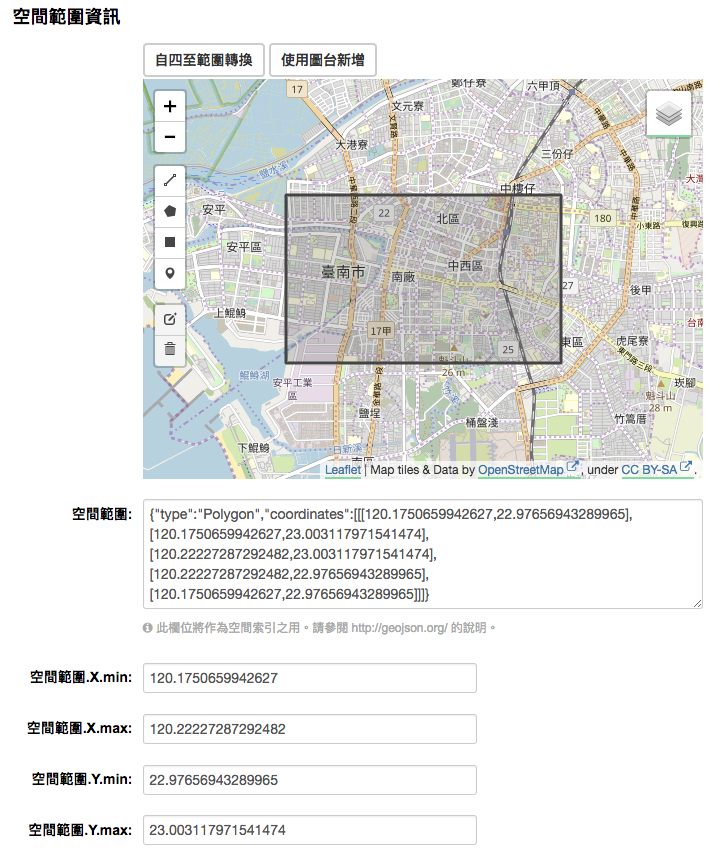
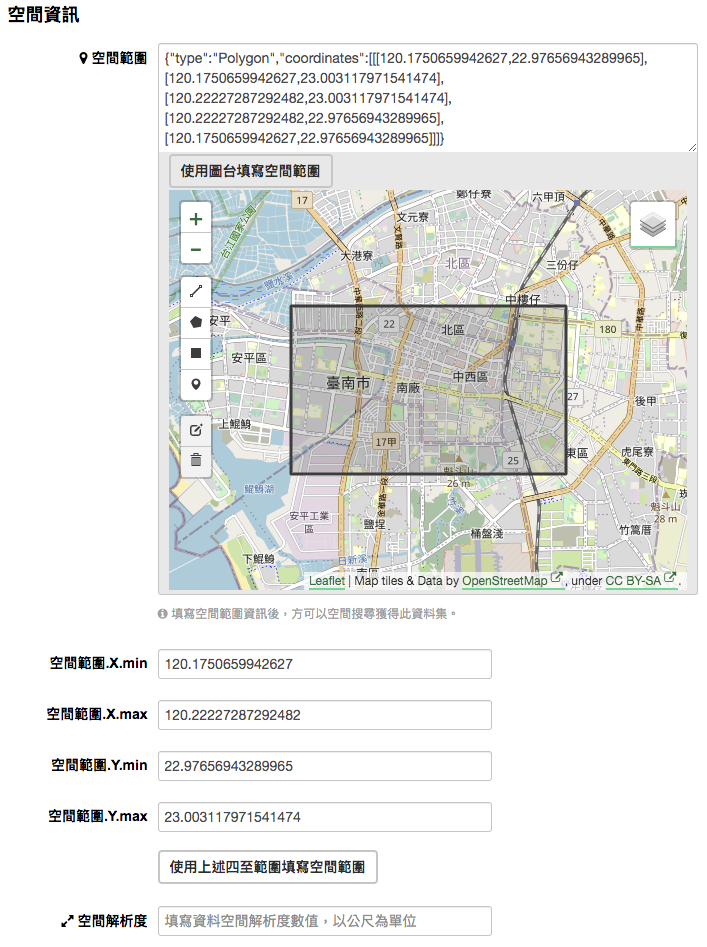
Doc: update ahead of 6.4.1

diff --git a/doc/appendix/fields/basic_information_fields.rst b/doc/appendix/fields/basic_information_fields.rst
@@ -29,18 +29,17 @@
 
    * - Wikidata 關鍵字
      - 否
-     - 您可自 Wikidata（維基資料）找尋符合條件之條目作為關鍵字以描述資料集內容，如圖所示 [#]_。
-       無論在中文或英文語系下新增關鍵字，瀏覽時均會根據網站語系設定顯示對應之翻譯。當無法自 Wikidata 尋得合適條目作為關鍵字時使用時，請將該關鍵字填寫於「標籤」欄位。
+     - 搜尋 Wikidata（維基資料）項目選取關鍵字以描述資料集。如圖所示 [#]_。只用於您專案或資料集的標記（如：計畫編號），請填寫於「標籤」欄位。瀏覽時會根據網站語系設定顯示對應之翻譯。
      - 接受多值。
 
    * - 標籤
      - 否
-     - 標籤欄位可協助使用者更容易找到該筆資料集，例如您可加上「人口」、「犯罪」等標籤。若無法自 Wikidata 尋得合適條目填入「關鍵字」欄位時，始建議使用此「標籤」欄位。
+     - 標籤欄位可協助使用者更容易找到該筆資料集，例如您可加上「人口」、「犯罪」等標籤。此欄位只用於您專案或資料集的標記。
      - 接受多值。長度須介於 1 至 100 字元（包含 1 與 100）、須為 unicode 文數字或「-」、「_」與「.」符號。
 
    * - 語言
      - 否
-     - 本項目說明資料集內容所使用之語言，如歷史文獻可能為華語、日語、西班牙語系等。選項將先列出主要語言（依據維基百科：`World language`_ 與 `Languages of Taiwan`_ 條目），再依照 ISO 639-3 語言編碼字母排序列出。
+     - 本項目說明資料集內容所使用之語言，如歷史文獻可能為華語、日語、西班牙語系等。選項將先列出主要語言（依據維基百科：`World language`_ 條目），再依照 ISO 639-3 語言編碼字母排序列出。
      - 接受多值。限使用 ISO 639-3 語言編碼。
 
    * - 備註
@@ -50,4 +49,3 @@
 
 .. [#] .. image:: /images/keyword_wikidata.png
 .. _World language: https://en.wikipedia.org/wiki/World_language#Living_world_languages
-.. _Languages of Taiwan: https://en.wikipedia.org/wiki/Languages_of_Taiwan

diff --git a/doc/appendix/fields/management_information_fields.rst b/doc/appendix/fields/management_information_fields.rst
@@ -9,7 +9,7 @@
 
    * - 授權
      - 是
-     - 宣告資料集之使用授權方式，提供後續使用者應用該筆資料之參考。若資料集釋出之授權不在候選清單內，請選擇「其他授權」，並於基本資訊之「備註」欄位註明授權條款。
+     - 宣告本資料集所使用的授權，提供後續使用者應用之參考。若不在候選清單內，請選擇「其他授權」，並於基本資訊之「備註」欄位註明授權條款。
      - 限以下授權之一：
 
        | 授權條款未指定
@@ -44,17 +44,17 @@
 
    * - 專案
      - 否
-     - 若您屬於任一專案內之成員，則您可於專案欄位之下拉選單內找到您所屬的專案清單。若選擇「沒有此專案」選項，此資料集將不屬於任何專案，且將會被強制設定為「公開」資料集。欄位下方之「只對專案內成員公開」核取方塊（如圖 [#]_）被選中時，非屬於選定專案之成員即無法瀏覽該資料集（即「非公開」狀態），反之則對任何使用者公開該資料集。
+     - 若您屬於任一專案之成員，則您可於專案欄位之下拉選單內找到您所屬的專案清單。若選擇「不屬於任何專案」選項，此資料集將不屬於任何專案，且將會被強制設定為「公開」資料集。欄位下方之「只對專案內成員公開」核取方塊（如圖 [#]_）被選中時，非屬於選定專案之成員即無法瀏覽該資料集（即「非公開」狀態），反之則對任何使用者公開該資料集。
      -
 
    * - 聯絡人
      - 否
-     - 負責維護資料集檔案之人員。
+     - 本資料集主要維護人員。
      -
 
    * - 聯絡人的電子郵件
      - 否
-     - 負責維護資料集檔案之人員之電子郵件信箱。
+     - 本資料集維護人員之電子郵件信箱。
      - `電子郵件格式 <https://html.spec.whatwg.org/#e-mail-state-(type=email)>`_。
 
 .. [#] .. image:: /images/add_dataset_3.png

diff --git a/doc_en/appendix/fields/basic_information_fields.rst b/doc_en/appendix/fields/basic_information_fields.rst
@@ -38,26 +38,24 @@
 
    * - Wikidata Keywords
      - No
-     - The short term to describe the contents of the dataset. You can search and select
-       keywords from Wikidata by an autocomplete dropdown list as shown below [#]_.
-       Wikidata entries are multilingual, which means the language of keywords may
-       align with the site language setting. Use the Tags field above when there is
-       no proper entry in the Wikidata to describe the dataset.
+     - Search Wikidata items for keywords to describe the dataset as shown below [#]_.
+       For labels that are specific to your projects or datasets (eg. grant no.),
+       use Tags instead.
+       The language of keywords may align with the site language setting.
      - Accept multiple values.
 
    * - Tags
      - No
      - Here you may add tags that will help people find the data and link it with other
-       related data. Please only use this field when there is no proper entry in the
-       Wikidata to describe the dataset. Otherwise, use the Wikidata Keywords field
-       above instead.
+       related data.
+       Tags should be used as labels that are specific to your projects or datasets.
      - Accept multiple values. Must be a valid unicode string, -, _, or . characters.
        The length limit for the tag is from 1 characters to 100 characters.
 
    * - Language
      - No
      - The language of the dataset (e.g., Chinese or Japanese). Main language (according
-       to Wikipedia: `World language`_ and `Languages of Taiwan`_) will be listed first,
+       to Wikipedia: `World language`_) will be listed first,
        followed by other ISO 639-3 languages in alphabetical order.
      - Accept multiple values. Must be a language defined in ISO 639-3.
 
@@ -68,4 +66,3 @@
 
 .. [#] .. image:: /images/keyword_wikidata.png
 .. _World language: https://en.wikipedia.org/wiki/World_language#Living_world_languages
-.. _Languages of Taiwan: https://en.wikipedia.org/wiki/Languages_of_Taiwan

diff --git a/doc_en/user-guide.rst b/doc_en/user-guide.rst
@@ -264,13 +264,16 @@ be found through `spatial search <Extended feature — Spatial search_>`_.
 
 You can use the following two methods to generate a valid spatial extent in GeoJSON format:
 
+  * *Using a Map* -- You can also add the spatial extent through digitizing process.
+    Select the "Use a map to fill in spatial coverage" button and draw a polyline, polygon,
+    rectangle, or marker on the expanded map to generate the spatial extent.
+
   * *Convert from Parcel Corner* -- If you already have the longitude and latitude of the corners
     for the parcel to describe the dataset, you can fill in the X.min, X.max, Y.mim, and Y.max
-    fields, then select the "Convert from Parcel Corner" button to generate the spatial extent.
+    fields, then select the "Use parcel corners to fill in spatial coverage" button to generate
+    the spatial extent.
 
-  * *Using a Map* -- You can also add the spatial extent through digitizing process.
-    Select the "Using a Map" button and draw a polyline, polygon, rectangle, or marker
-    on the expanded map to generate the spatial extent.
+You can also fill in the spatial resolution of the dataset here.
 
 .. image:: /images/spatial_info.png
 
@@ -461,7 +464,7 @@ You can use a slider to set the time range.
 Extended feature — Spatial search
 ---------------------------------
 
-If datasets are tagged by geographical area in the ``spatial`` field (please refer to
+If datasets are tagged by geographical area in the ``Spatial Coverage`` field (please refer to
 :ref:`Spatial Fields  <UI_editing_extend_spatial>` for details), it is also possible to run CKAN
 with an extension which allows searching and filtering of datasets by selecting
 an area on a map.

diff --git a/doc_en/appendix/others/parse-insight-content-types.rst b/doc_en/appendix/others/parse-insight-content-types.rst
@@ -1,4 +1,4 @@
-From `Metadata Schema for the Description of Research Data Repositories`_.
+Adapted from `Metadata Schema for the Description of Research Data Repositories`_.
 
 .. list-table::
    :widths: 25 75
@@ -13,8 +13,8 @@ From `Metadata Schema for the Description of Research Data Repositories`_.
    * - Networkbased data
      - websites, email, chat history, etc.
 
-   * - Databases 
-     - DBASE, MS Access, Oracle, MySQL, etc.
+   * - Databases
+     - MS Access, Oracle, MySQL, SQLite, PostgreSQL, etc.
 
    * - Images
      - JPEG, JPEG2000, GIF, TIF, PNG, SVG, etc.
@@ -23,7 +23,7 @@ From `Metadata Schema for the Description of Research Data Repositories`_.
      - CAD, CAM, 3D, VRML, etc.
 
    * - Audiovisual data
-     - WAVE, MP3, MP4, Flash, etc.
+     - WAVE, MP3, MP4, WebM, FLAC, Ogg, etc.
 
    * - Scientific and statistical data formats
      - SPSS, FITS, GIS, etc.
@@ -32,10 +32,10 @@ From `Metadata Schema for the Description of Research Data Repositories`_.
      - device specific output
 
    * - Plain text
-     - TXT in various encodings
+     - TXT in various encodings, and CSV files
 
    * - Structured text
-     - XML, SGML, etc.
+     - XML, SGML, RTF, LaTeX, Markdown, ReST, etc.
 
    * - Archived data
      - ZIP, RAR, JAR, etc.

diff --git a/doc/appendix/others/parse-insight-content-types.rst b/doc/appendix/others/parse-insight-content-types.rst
@@ -1,4 +1,4 @@
-譯自 re3data.org 所發行之 `Metadata Schema for the Description of Research Data Repositories`_。
+翻譯與修改自 re3data.org 所發行之 `Metadata Schema for the Description of Research Data Repositories`_。
 
 .. list-table::
    :widths: 25 75
@@ -14,7 +14,7 @@
      - 網站、電子郵件、聊天記錄等
 
    * - 資料庫
-     - DBASE、MS Access、Oracle、MySQL 等
+     - MS Access、Oracle、MySQL、SQLite、PostgreSQL 等
 
    * - 影像
      - JPEG、JPEG2000、GIF、TIF、PNG、SVG 等
@@ -23,7 +23,7 @@
      - CAD、CAM、3D、VRML 等
 
    * - 影音資料
-     - WAVE、MP3、MP4、Flash 等
+     - WAVE、MP3、MP4、WebM、FLAC、Ogg 等
 
    * - 科學與統計資料
      - SPSS、FITS、GIS 等
@@ -32,10 +32,10 @@
      - 數位裝置輸出之資料
 
    * - 純文字資料
-     - 各種編碼之純文字檔案
+     - 各種編碼之純文字檔案，與 CSV 檔案
 
    * - 結構化文字資料
-     - XML、SGML 等
+     - XML、SGML、RTF、LaTeX、Markdown、ReST 等
 
    * - 壓縮檔資料
      - ZIP、RAR、JAR 等

diff --git a/doc_en/appendix/fields/management_information_fields.rst b/doc_en/appendix/fields/management_information_fields.rst
@@ -9,7 +9,7 @@
 
    * - License
      - Yes
-     - It is important to include license information so that people know how they can use the data. If you need to use a license not on the list, please select the "Other Licenses" and mark the license in the ``Remarks`` field above.
+     - Declare the license for the dataset so that people know how they can use the data. If you need to use a license not on the list, please select the "Other Licenses" and mark the license in the ``Remarks`` field above.
      - Must be one of the following licenses:
 
        | License Not Specified
@@ -55,12 +55,12 @@
 
    * - Contact Person
      - No
-     - The name of the person responsible for maintaining the data.
+     - The person responsible for maintaining the dataset.
      -
 
    * - Contact Person Email
      - No
-     - The email of the person responsible for maintaining the data.
+     - The email of the person responsible for maintaining the dataset.
      - `Email format <https://html.spec.whatwg.org/#e-mail-state-(type=email)>`_
 
 .. [#] .. image:: /images/add_dataset_3.png

diff --git a/doc/appendix/fields/resource_fields.rst b/doc/appendix/fields/resource_fields.rst
@@ -22,9 +22,9 @@
      - 關於資源的簡短描述。
      - Markdown 欄位。
 
-   * - 文字編碼
+   * - 字元編碼
      - 否
-     - 此檔案所使用之編碼系統，如 UTF-8、Big5 等。**用於 Shapefile 檔案。**
+     - 此資源所使用之編碼系統，如 UTF-8、Big5 等。目前僅用於 shapefile 資源。
      - 限以下 `IANA Character Sets <https://www.iana.org/assignments/character-sets/character-sets.xhtml>`_ 編碼之一：
 
        | Big5 (繁體中文大五碼)
@@ -37,7 +37,7 @@
 
    * - 座標參考系統
      - 否
-     - 當您所新增之資源屬於空間資料時，則需另外填寫該空間資料所參考之坐標系統。採用 EPSG （歐洲石油測量組織）編碼。**用於 Shapefile 檔案。**
+     - 當您所新增之資源為 shapefile 檔案，且未提供投影格式（.prj）檔案時，則需另外填寫此欄位，否則將無法開啟預覽功能。採用 EPSG （歐洲石油測量組織）編碼。
      - 必須是正整數。
 
    * - 格式

diff --git a/doc_en/appendix/fields/resource_fields.rst b/doc_en/appendix/fields/resource_fields.rst
@@ -24,7 +24,7 @@
 
    * - Character Encoding
      - No
-     - The character encoding of the resource (e.g., UTF-8 or Big5). **For Shapefile resource.**
+     - The character encoding of the resource (e.g., UTF-8 or Big5). Applied only to shapefile resources for now.
      - `IANA Character Sets <https://www.iana.org/assignments/character-sets/character-sets.xhtml>`_:
 
        | Big5
@@ -37,7 +37,7 @@
 
    * - Coordinate Systems
      - No
-     - The coordinate systems of the spatial resource. The EPSG (European Petroleum Survey Group) system has been used. **For Shapefile resource.**
+     - This field is required when the resource is in shapefile format with no projection (.prj file), otherwise the shapefile can not be previewed. The EPSG (European Petroleum Survey Group) system has been used.
      - Must be a postive integer.
 
    * - Format

diff --git a/doc_en/appendix/fields/spatio_temporal_information_fields.rst b/doc_en/appendix/fields/spatio_temporal_information_fields.rst
@@ -30,7 +30,7 @@
      - Same as above
      - Same as above
 
-   * - Spatial
+   * - Spatial Coverage
      - No
      - Please refer to :ref:`Fill-in snippet for spatial fields <UI_editing_extend_spatial>`.
      - GeoJSON format
@@ -57,5 +57,5 @@
 
    * - Spatial Resolution
      - No
-     - Spatial resolution (m) of source.
+     - Spatial resolution (in meter) of source.
      - Must be a positive float.

diff --git a/doc/appendix/validators/resource_validators.rst b/doc/appendix/validators/resource_validators.rst
@@ -14,7 +14,7 @@
    * - 摘要
      - *選填欄位基本校驗器*
 
-   * - 文字編碼
+   * - 字元編碼
      - :ref:`scheming_required <external_validators>` :ref:`scheming_choices <external_validators>`
 
    * - 座標參考系統
